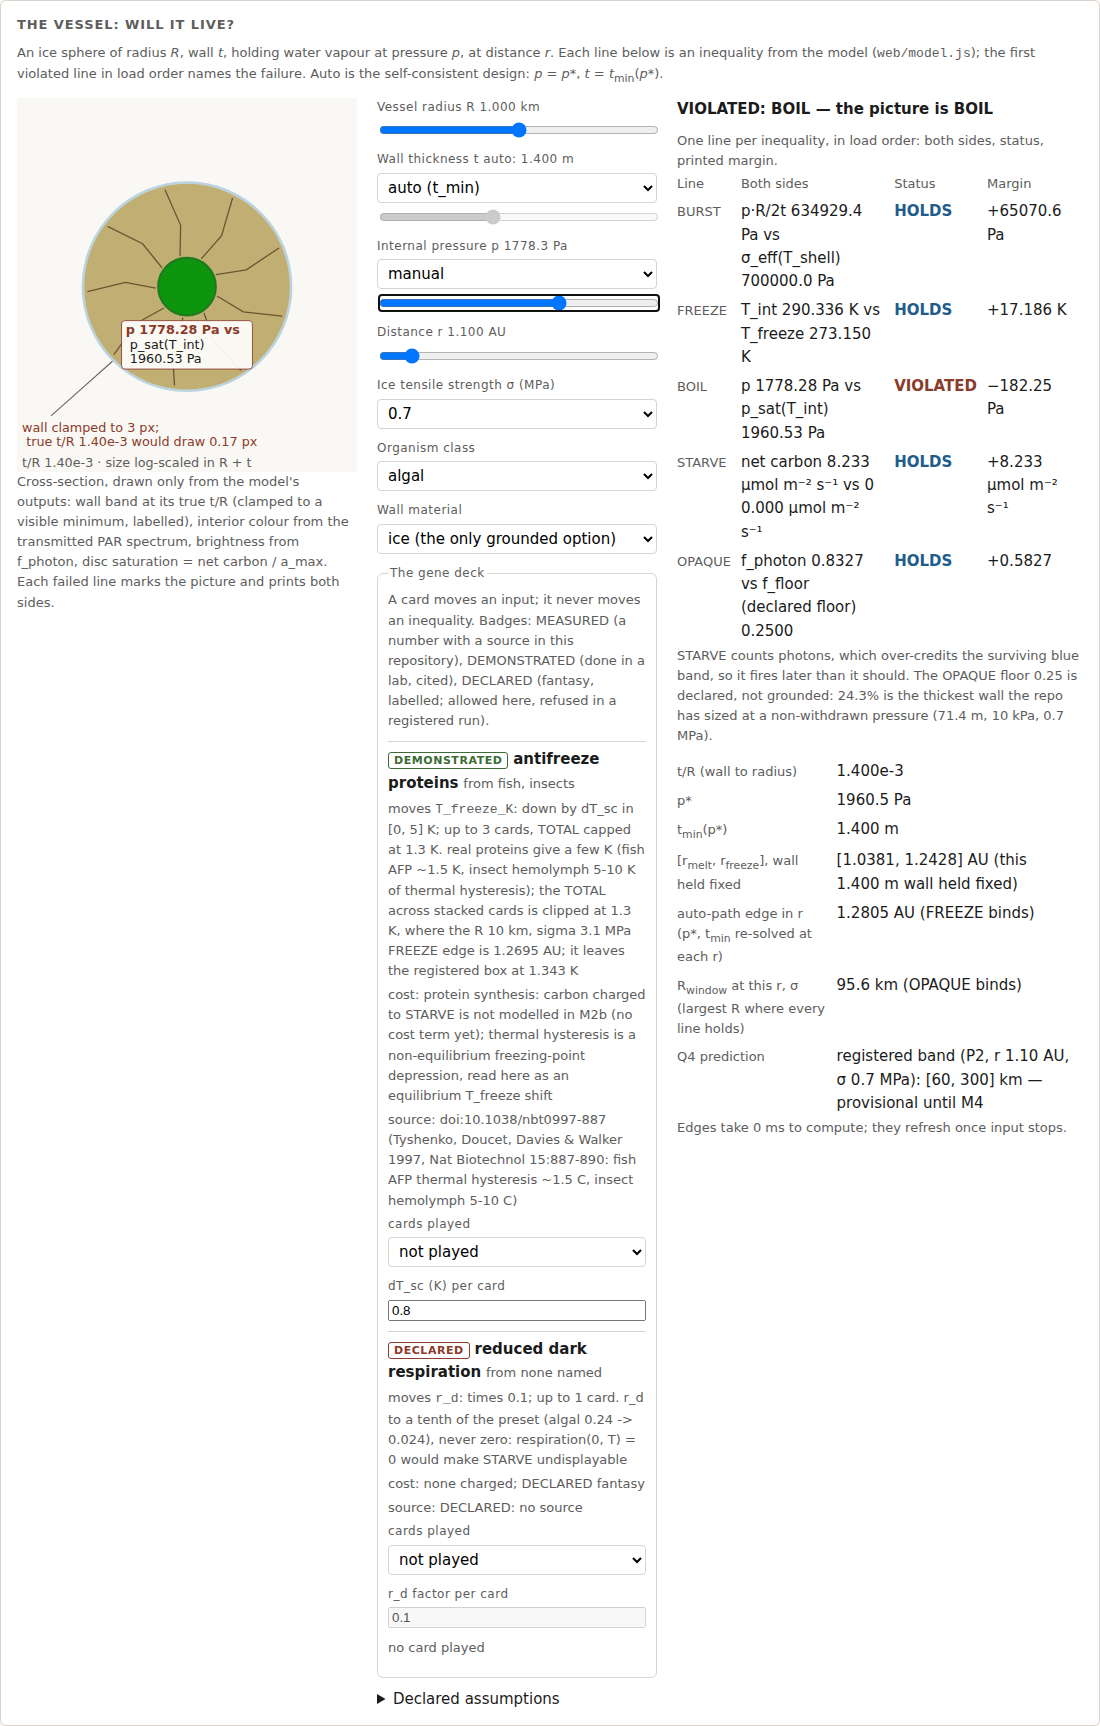
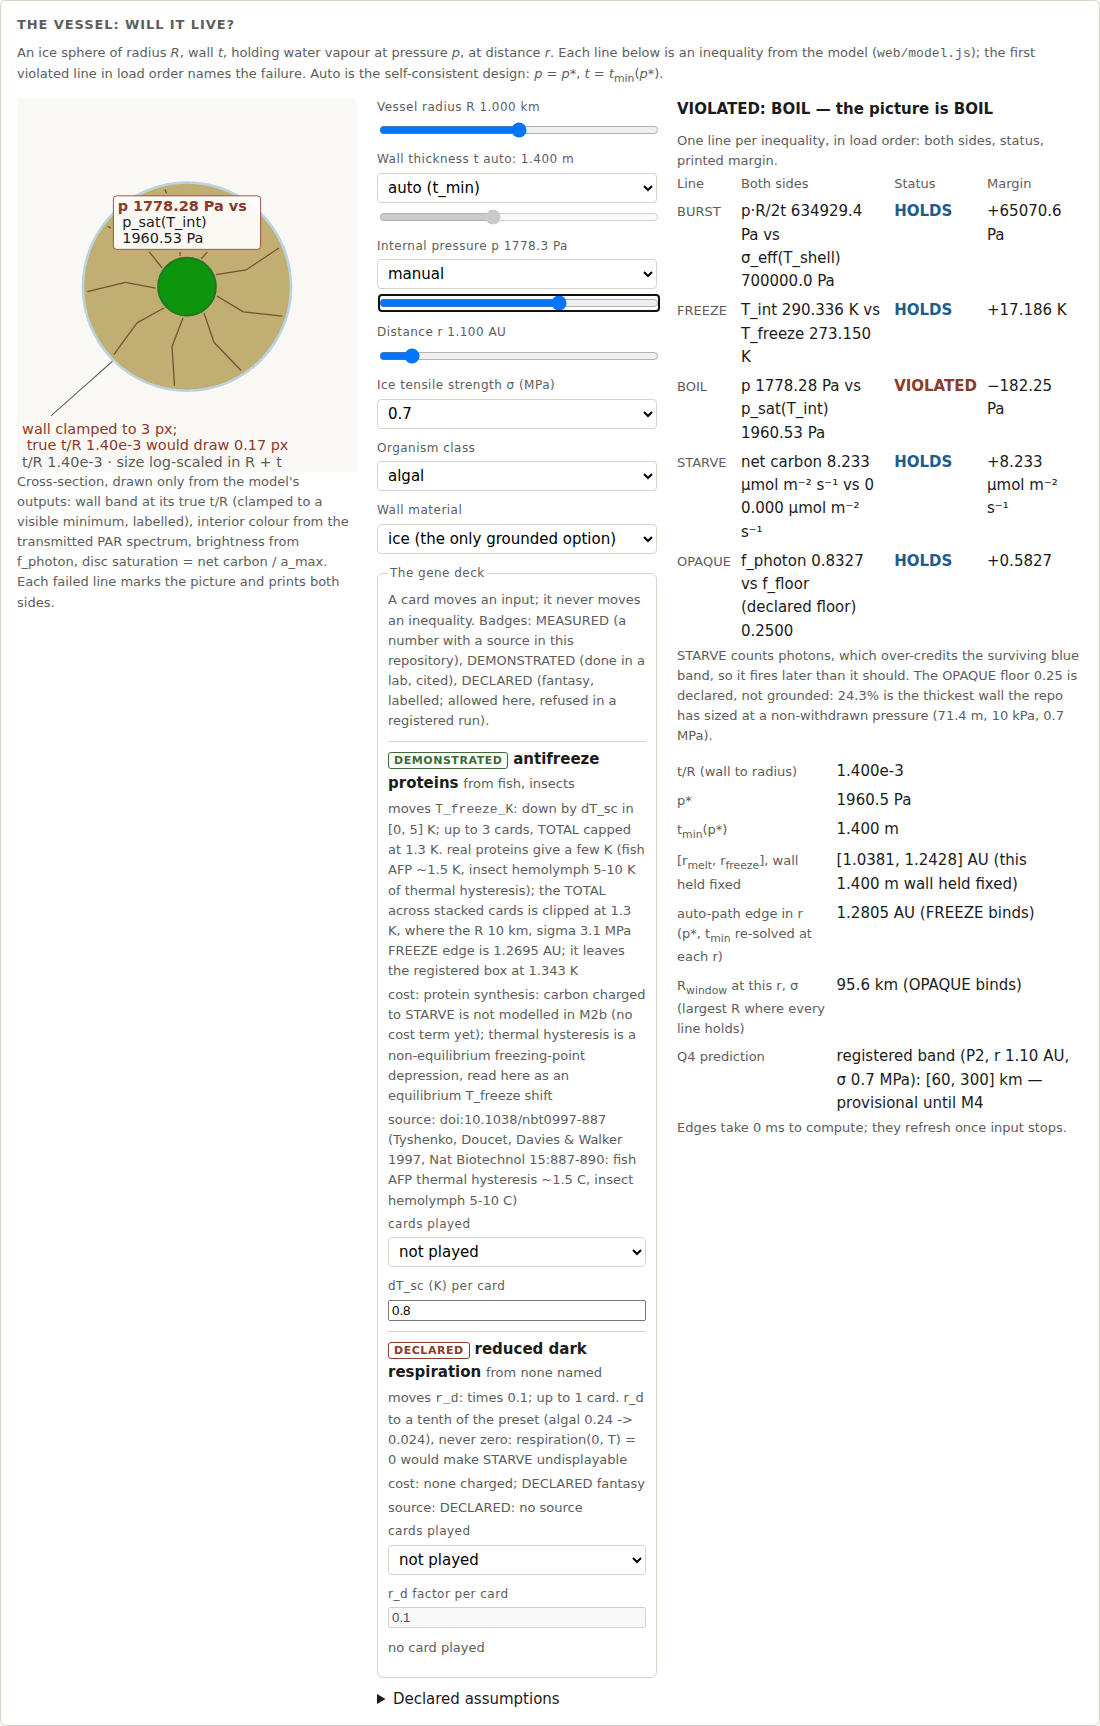
fix(m3): critic round 2 - amber hatch, plates above the disc with marks clipped clear, 17-unit text, shots only after edges settle

Changed region(s): [[0.0927, 0.0921, 0.2473, 0.1535], [0.0, 0.2457, 0.2473, 0.2764], [0.0927, 0.1842, 0.2473, 0.2149]]

diff --git a/web/picture.js b/web/picture.js
@@ -23,8 +23,10 @@
     OUT_MIN = 100, // px at R + t = 10 m
     OUT_MAX = 148, // px at R + t = 101 km
     MIN_BAND_PX = 3,
-    FS = 15, // >= 12 px on screen at the page's figure width (smoke asserts it)
-    LH = 17,
+    FS = 17, // >= 12 px on screen at the page's figure width (smoke asserts it)
+    LH = 19,
+    PLATE_GAP = 10, // units between the organism disc and a plate
+    KEEP_PAD = 3, // units every mark keeps clear of a plate
     WRAP = 20,
     CLAMP_Y = 378;
   var NS = "http://www.w3.org/2000/svg";
@@ -169,10 +171,57 @@
     return { x0: x0, y0: y - 2, w: w, h: h };
   }
 
-  // an interior wound's killing number, on a plate inside the interior below the disc
+  // plate size for a text, before anything is drawn (marks are clipped around it)
+  function plateSize(text) {
+    var lines = wrap(text);
+    var wmax = Math.max.apply(null, lines.map(function (l) { return l.trim().length; }));
+    return { w: wmax * FS * 0.64 + 10, h: lines.length * LH + 6 };
+  }
+  // an interior wound's plate: centred above the disc with a gap, stacked upward by slot
+  function interiorBox(geo, text, slot) {
+    var sz = plateSize(text);
+    var y1 = CY - geo.rOrg - PLATE_GAP - slot * (sz.h + 6);
+    return { x0: CX - sz.w / 2, y0: y1 - sz.h, x1: CX + sz.w / 2, y1: y1 };
+  }
   function interiorLabel(g, geo, text, slot) {
-    var y = CY + Math.max(geo.rOrg + 8, geo.ri * 0.34) + slot * (3 * LH + 10);
-    label(g, CX, y, "middle", text, true);
+    var b = interiorBox(geo, text, slot);
+    label(g, CX, b.y0 + 2, "middle", text, true);
+  }
+  // the parts of segment ab outside every keep-out rect (padded), for marks near a plate
+  function outside(a, b, rects) {
+    var pieces = [[a, b]];
+    rects.forEach(function (R) {
+      var next = [];
+      pieces.forEach(function (sg) {
+        var p = sg[0], q = sg[1], dx = q[0] - p[0], dy = q[1] - p[1], t0 = 0, t1 = 1, ok = true;
+        [[-dx, p[0] - (R.x0 - KEEP_PAD)], [dx, R.x1 + KEEP_PAD - p[0]],
+         [-dy, p[1] - (R.y0 - KEEP_PAD)], [dy, R.y1 + KEEP_PAD - p[1]]].forEach(function (c) {
+          if (!ok) return;
+          if (c[0] === 0) { if (c[1] < 0) ok = false; return; }
+          var t = c[1] / c[0];
+          if (c[0] < 0) t0 = Math.max(t0, t); else t1 = Math.min(t1, t);
+        });
+        if (!ok || t0 > t1) { next.push(sg); return; }
+        var at = function (t) { return [p[0] + dx * t, p[1] + dy * t]; };
+        if (t0 > 1e-6) next.push([p, at(t0)]);
+        if (t1 < 1 - 1e-6) next.push([at(t1), q]);
+      });
+      pieces = next;
+    });
+    return pieces;
+  }
+  function segs(g, pts, attrs, rects) {
+    for (var i = 1; i < pts.length; i++)
+      outside(pts[i - 1], pts[i], rects).forEach(function (sg) {
+        var a = Object.assign({ x1: sg[0][0].toFixed(1), y1: sg[0][1].toFixed(1),
+          x2: sg[1][0].toFixed(1), y2: sg[1][1].toFixed(1) }, attrs);
+        el("line", a, g);
+      });
+  }
+  function ring(g, r, attrs, rects) {
+    var pts = [];
+    for (var i = 0; i <= 96; i++) pts.push(pt(r, (i * 2 * Math.PI) / 96));
+    segs(g, pts, attrs, rects);
   }
 
   var DRAW = {
@@ -198,7 +247,7 @@
           var rr = (out ? r1 : r0) + (out ? 1 : -1) * (len * i) / steps;
           p.push(pt(rr, side + c[0] * 0.06 * i + (i % 2 ? 0.03 : -0.03)));
         }
-        el("polyline", { points: p.map(P2).join(" "), fill: "none", stroke: FAIL, "stroke-width": 2 }, g);
+        segs(g, p, { stroke: FAIL, "stroke-width": 2, "stroke-linecap": "round" }, geo.keep);
       });
       var b = label(g, W - 4, 6, "end", text, true);
       var from = pt(r1 + 26, a);
@@ -217,6 +266,10 @@
       for (var i = 0; i < 12; i++) {
         var p = pt(geo.ri * (0.72 + 0.16 * (i % 2)), (i * 2 * Math.PI) / 12 + 0.2),
           s = Math.max(4, geo.ri * 0.07);
+        var near = geo.keep.some(function (R) {
+          return p[0] + s + KEEP_PAD > R.x0 && p[0] - s - KEEP_PAD < R.x1 && p[1] + s + KEEP_PAD > R.y0 && p[1] - s - KEEP_PAD < R.y1;
+        });
+        if (near) continue;
         for (var k = 0; k < 3; k++) {
           var bb = (k * Math.PI) / 3;
           el("line", { x1: (p[0] - s * Math.cos(bb)).toFixed(1), y1: (p[1] - s * Math.sin(bb)).toFixed(1),
@@ -231,10 +284,8 @@
       el("circle", { cx: CX, cy: CY, r: geo.ri, fill: "#b89a64", "fill-opacity": 0.75, "data-mark": "dry" }, g);
       for (var i = 0; i < 9; i++) {
         var a = (i * 2 * Math.PI) / 9 + 0.3;
-        el("polyline", {
-          points: [pt(geo.rOrg + 3, a), pt(geo.ri * 0.6, a + 0.12), pt(geo.ri * 0.97, a)].map(P2).join(" "),
-          fill: "none", stroke: "#6b5431", "stroke-width": 1.5,
-        }, g);
+        segs(g, [pt(geo.rOrg + 3, a), pt(geo.ri * 0.6, a + 0.12), pt(geo.ri * 0.97, a)],
+          { stroke: "#6b5431", "stroke-width": 1.5 }, geo.keep);
       }
       interiorLabel(g, geo, text, slot);
     },
@@ -247,22 +298,16 @@
     // under its own wall: a veil with hatching, and a ring for the declared floor
     OPAQUE: function (g, geo, text, slot) {
       el("circle", { cx: CX, cy: CY, r: geo.ri, fill: "#000000", "fill-opacity": 0.35, "data-mark": "veil" }, g);
+      // hatch in a light amber at reduced opacity, so it reads against the dark veil
+      var hg = el("g", { "data-mark": "hatch" }, g);
       for (var d = -geo.ri + 10; d < geo.ri; d += 14) {
-        var half = Math.sqrt(geo.ri * geo.ri - d * d) / Math.SQRT2; // 45° chord, inside the circle
-        var c = Math.sqrt(geo.ri * geo.ri - d * d);
-        var ux = Math.SQRT1_2,
-          uy = -Math.SQRT1_2; // along the chord
-        var nx = Math.SQRT1_2,
-          ny = Math.SQRT1_2; // normal
-        void half;
-        el("line", {
-          x1: (CX + d * nx - c * ux).toFixed(1), y1: (CY + d * ny - c * uy).toFixed(1),
-          x2: (CX + d * nx + c * ux).toFixed(1), y2: (CY + d * ny + c * uy).toFixed(1),
-          stroke: "#000000", "stroke-opacity": 0.45, "stroke-width": 1.2,
-        }, g);
+        var c = Math.sqrt(geo.ri * geo.ri - d * d); // half-chord at offset d along the 45° normal
+        var S = Math.SQRT1_2;
+        segs(hg, [[CX + d * S - c * S, CY + d * S + c * S], [CX + d * S + c * S, CY + d * S - c * S]],
+          { stroke: "#f2c86a", "stroke-opacity": 0.6, "stroke-width": 1.5 }, geo.keep);
       }
-      el("circle", { cx: CX, cy: CY, r: (geo.ri - 4).toFixed(2), fill: "none", stroke: "#d9a441",
-        "stroke-width": 2, "stroke-dasharray": "6 4", "data-mark": "floor-ring" }, g);
+      var fr = el("g", { "data-mark": "floor-ring" }, g);
+      ring(fr, geo.ri - 4, { stroke: "#f2c86a", "stroke-width": 2.5 }, geo.keep);
       interiorLabel(g, geo, text, slot);
     },
   };
@@ -286,6 +331,10 @@
     var rOrg = Math.max(6, 0.28 * ri);
     var geo = { ro: ro, ri: ri, rOrg: rOrg };
     var bad = rep.violated.slice();
+    var ks = 0;
+    geo.keep = bad
+      .filter(function (n) { return n !== "BURST"; })
+      .map(function (n) { return interiorBox(geo, texts[n], ks++); });
     svg.setAttribute("viewBox", "0 0 " + W + " " + H);
 
     el("title", {}, svg, "Cross-section of the vessel");

diff --git a/tools/smoke_page.py b/tools/smoke_page.py
@@ -473,6 +473,9 @@ def exercise_picture(page, label: str, shoot: bool) -> None:
         return sorted(page.eval_on_selector_all("#pic-overlays > g", "els => els.map(e => e.dataset.line)"))
 
     def shot(name):
+        settle()
+        busy = "computing" in page.locator("#vessel").inner_text()
+        check(not busy, f"[{label}] shot {name}: taken after the panel finished computing")
         if shoot:
             SHOTS.mkdir(parents=True, exist_ok=True)
             page.locator("#vessel").screenshot(path=str(SHOTS / f"{name}.png"))
@@ -536,6 +539,88 @@ def exercise_picture(page, label: str, shoot: bool) -> None:
             check(ok, f"[{label}] {tag}: clamp label beside the band ({d:.1f} px off the rim) with a leader")
         return m
 
+
+    def overlap_check(tag):
+        """Critic round 2: no overlay mark or leader crosses a label plate; plates clear the disc."""
+        g = page.evaluate(
+            """() => { const svg = document.getElementById('pic'); const n = (e, a) => parseFloat(e.getAttribute(a));
+              const plates = [...svg.querySelectorAll('#pic-overlays rect')].map(r => ({owner: r.parentNode.id,
+                x0: n(r,'x'), y0: n(r,'y'), x1: n(r,'x') + n(r,'width'), y1: n(r,'y') + n(r,'height')}));
+              const segs = [];
+              const add = (e, pts) => { for (let i = 1; i < pts.length; i++) segs.push({id: (e.id || e.parentNode.id) + ':' + e.tagName, a: pts[i-1], b: pts[i]}); };
+              svg.querySelectorAll('#pic-overlays line, #pic-clamp-leader').forEach(e =>
+                add(e, [[n(e,'x1'), n(e,'y1')], [n(e,'x2'), n(e,'y2')]]));
+              svg.querySelectorAll('#pic-overlays polyline').forEach(e =>
+                add(e, e.getAttribute('points').trim().split(/\\s+/).map(p => p.split(',').map(Number))));
+              const rings = [...svg.querySelectorAll('#pic-overlays circle')].filter(c => c.getAttribute('fill') === 'none')
+                .map(c => ({id: c.parentNode.id + ':ring', cx: n(c,'cx'), cy: n(c,'cy'), r: n(c,'r')}));
+              const o = document.getElementById('pic-organism');
+              return {plates, segs, rings, disc: {cx: n(o,'cx'), cy: n(o,'cy'), r: n(o,'r')}}; }"""
+        )
+
+        def seg_hits(a, b, R):
+            # Liang-Barsky clip of segment ab against rect R shrunk by 1 unit (a leader may touch the edge)
+            x0, y0, x1, y1 = R["x0"] + 1, R["y0"] + 1, R["x1"] - 1, R["y1"] - 1
+            dx, dy = b[0] - a[0], b[1] - a[1]
+            t0, t1 = 0.0, 1.0
+            for p_, q_ in ((-dx, a[0] - x0), (dx, x1 - a[0]), (-dy, a[1] - y0), (dy, y1 - a[1])):
+                if p_ == 0:
+                    if q_ < 0:
+                        return False
+                else:
+                    t = q_ / p_
+                    if p_ < 0:
+                        t0 = max(t0, t)
+                    else:
+                        t1 = min(t1, t)
+            return t0 <= t1
+
+        def ring_hits(c, R):
+            nx = min(max(c["cx"], R["x0"]), R["x1"]) - c["cx"]
+            ny = min(max(c["cy"], R["y0"]), R["y1"]) - c["cy"]
+            near = (nx * nx + ny * ny) ** 0.5
+            far = max(((x - c["cx"]) ** 2 + (y - c["cy"]) ** 2) ** 0.5 for x in (R["x0"], R["x1"]) for y in (R["y0"], R["y1"]))
+            return near <= c["r"] <= far
+
+        hits = [f"{s_['id']} x plate {R['owner']}" for R in g["plates"] for s_ in g["segs"] if seg_hits(s_["a"], s_["b"], R)]
+        hits += [f"{c['id']} x plate {R['owner']}" for R in g["plates"] for c in g["rings"] if ring_hits(c, R)]
+        check(not hits, f"[{label}] {tag}: no overlay mark or leader crosses a label plate: {sorted(set(hits))[:6]}")
+        d = g["disc"]
+        for R in g["plates"]:
+            if R["owner"] == "pic-ov-BURST":
+                continue
+            nx = min(max(d["cx"], R["x0"]), R["x1"]) - d["cx"]
+            ny = min(max(d["cy"], R["y0"]), R["y1"]) - d["cy"]
+            gap = (nx * nx + ny * ny) ** 0.5 - d["r"]
+            check(gap >= 3, f"[{label}] {tag}: plate {R['owner']} clears the disc by {gap:.1f} >= 3 units")
+
+    def hatch_contrast():
+        m = page.evaluate(
+            """() => { const g = document.getElementById('pic-ov-OPAQUE');
+              const cs = (e, p) => getComputedStyle(e)[p];
+              const hatch = [...g.querySelectorAll('line')].map(l => ({c: cs(l, 'stroke'), a: parseFloat(cs(l, 'strokeOpacity'))}));
+              const veil = g.querySelector('[data-mark=veil]');
+              return {hatch, inner: cs(document.getElementById('pic-inner'), 'fill'),
+                      veil: veil ? {c: cs(veil, 'fill'), a: parseFloat(cs(veil, 'fillOpacity'))} : null}; }"""
+        )
+
+        def rgb(s_):
+            return [int(x) / 255 for x in re.findall(r"\d+", s_)[:3]]
+
+        def over(top, a, base):
+            return [a * t + (1 - a) * b for t, b in zip(top, base)]
+
+        def lum(c):
+            lin = [x / 12.92 if x <= 0.04045 else ((x + 0.055) / 1.055) ** 2.4 for x in c]
+            return 0.2126 * lin[0] + 0.7152 * lin[1] + 0.0722 * lin[2]
+
+        under = rgb(m["inner"])
+        if m["veil"]:
+            under = over(rgb(m["veil"]["c"]), m["veil"]["a"], under)
+        diffs = [abs(lum(over(rgb(h["c"]), h["a"], under)) - lum(under)) for h in m["hatch"]]
+        check(bool(diffs) and min(diffs) >= 0.15,
+              f"[{label}] OPAQUE hatch contrasts with the fill under it: min luminance difference {min(diffs) if diffs else None} (>= 0.15)")
+
     reload()
     tr = float(page.locator("#v-tR").inner_text())
     g = geom()
@@ -548,6 +633,7 @@ def exercise_picture(page, label: str, shoot: bool) -> None:
                  f"(ratio {band / g['ri']:.4f} vs true t/R {tr:.3e})")
     check(overlays() == [], f"[{label}] picture defaults: no overlay, got {overlays()}")
     measure("defaults")
+    overlap_check("defaults")
     shot("01_defaults_clamped")
 
     # input -> picture latency: the picture is redrawn synchronously with the lines
@@ -573,6 +659,7 @@ def exercise_picture(page, label: str, shoot: bool) -> None:
           f"[{label}] unclamped: drawn band/inner {ratio:.4f} equals readout t/R {tr:.4f} to 2 dp")
     check(page.locator("#pic-clamp").count() == 0, f"[{label}] unclamped: no clamp label")
     m2 = measure("unclamped")
+    overlap_check("unclamped")
     rgb2 = [int(x) for x in re.findall(r"\d+", m2["inner"])[:3]]
     check(rgb2[2] == max(rgb2) and rgb2[2] - min(rgb2) >= 40 and max(rgb2) >= 120,
           f"[{label}] unclamped (alive, f_photon above the floor): interior visibly blue and not crushed, {rgb2}")
@@ -600,6 +687,9 @@ def exercise_picture(page, label: str, shoot: bool) -> None:
         )
         check(box and all(box), f"[{label}] gesture {line}: wound label inside the picture {box}")
         measure(line, line)
+        overlap_check(line)
+        if line == "OPAQUE":
+            hatch_contrast()
         if line == "OPAQUE":
             marks = page.eval_on_selector_all("#pic-ov-OPAQUE [data-mark]", "els => els.map(e => e.dataset.mark)")
             check("veil" in marks and "floor-ring" in marks, f"[{label}] OPAQUE has its own veil and floor ring, not luminance only: {marks}")
